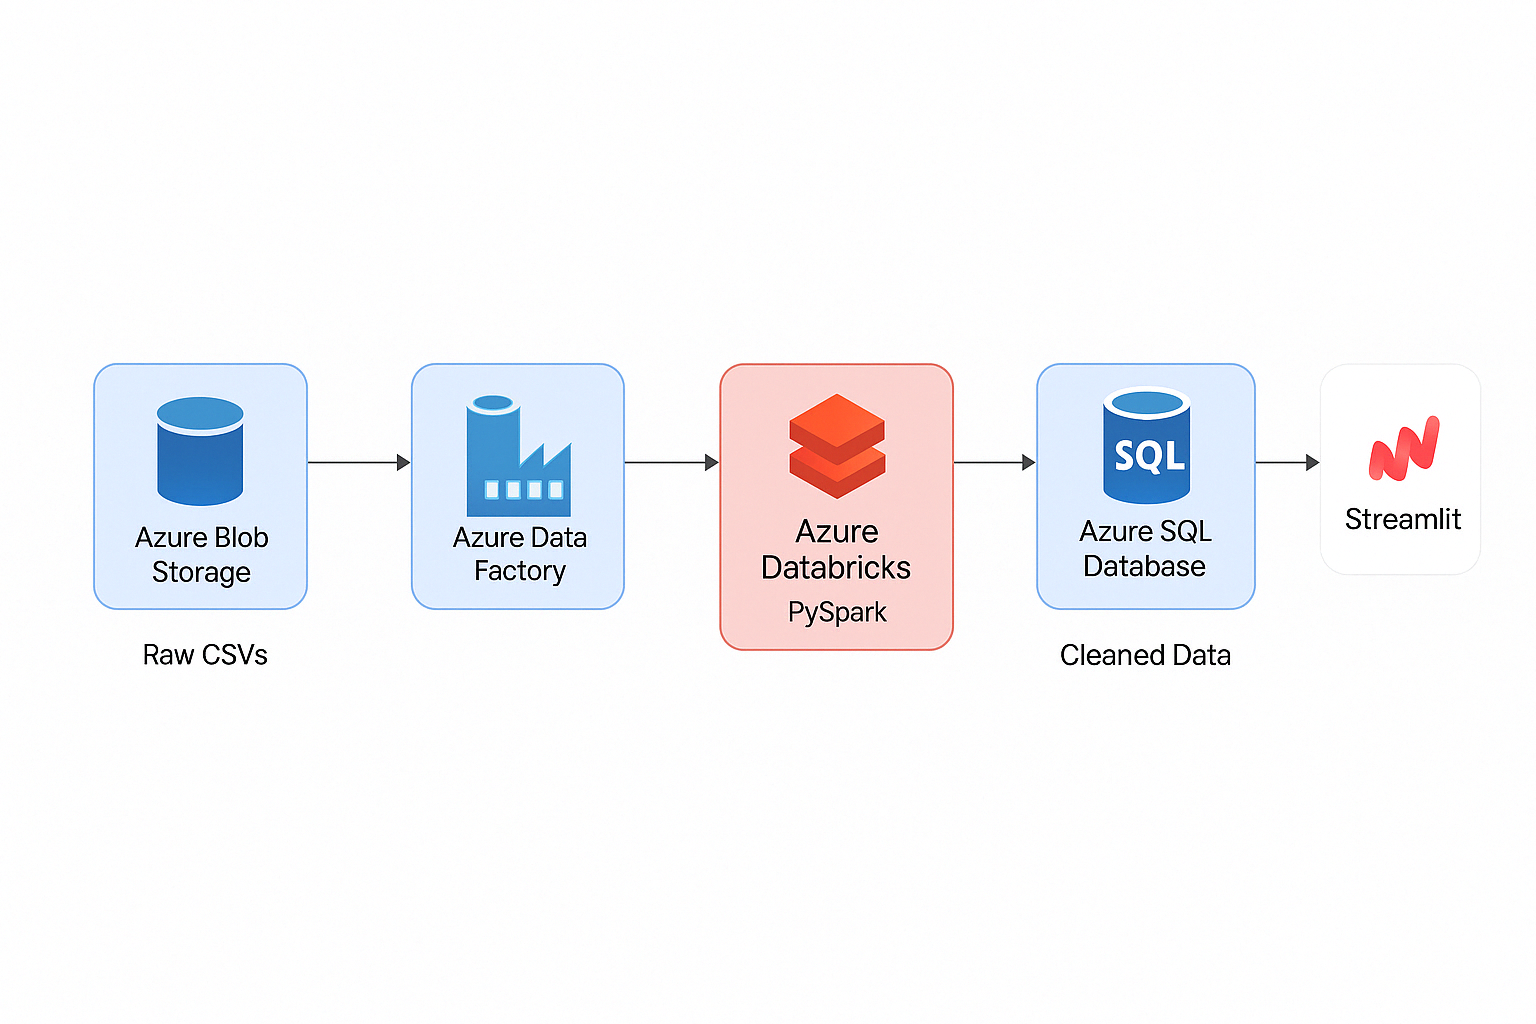
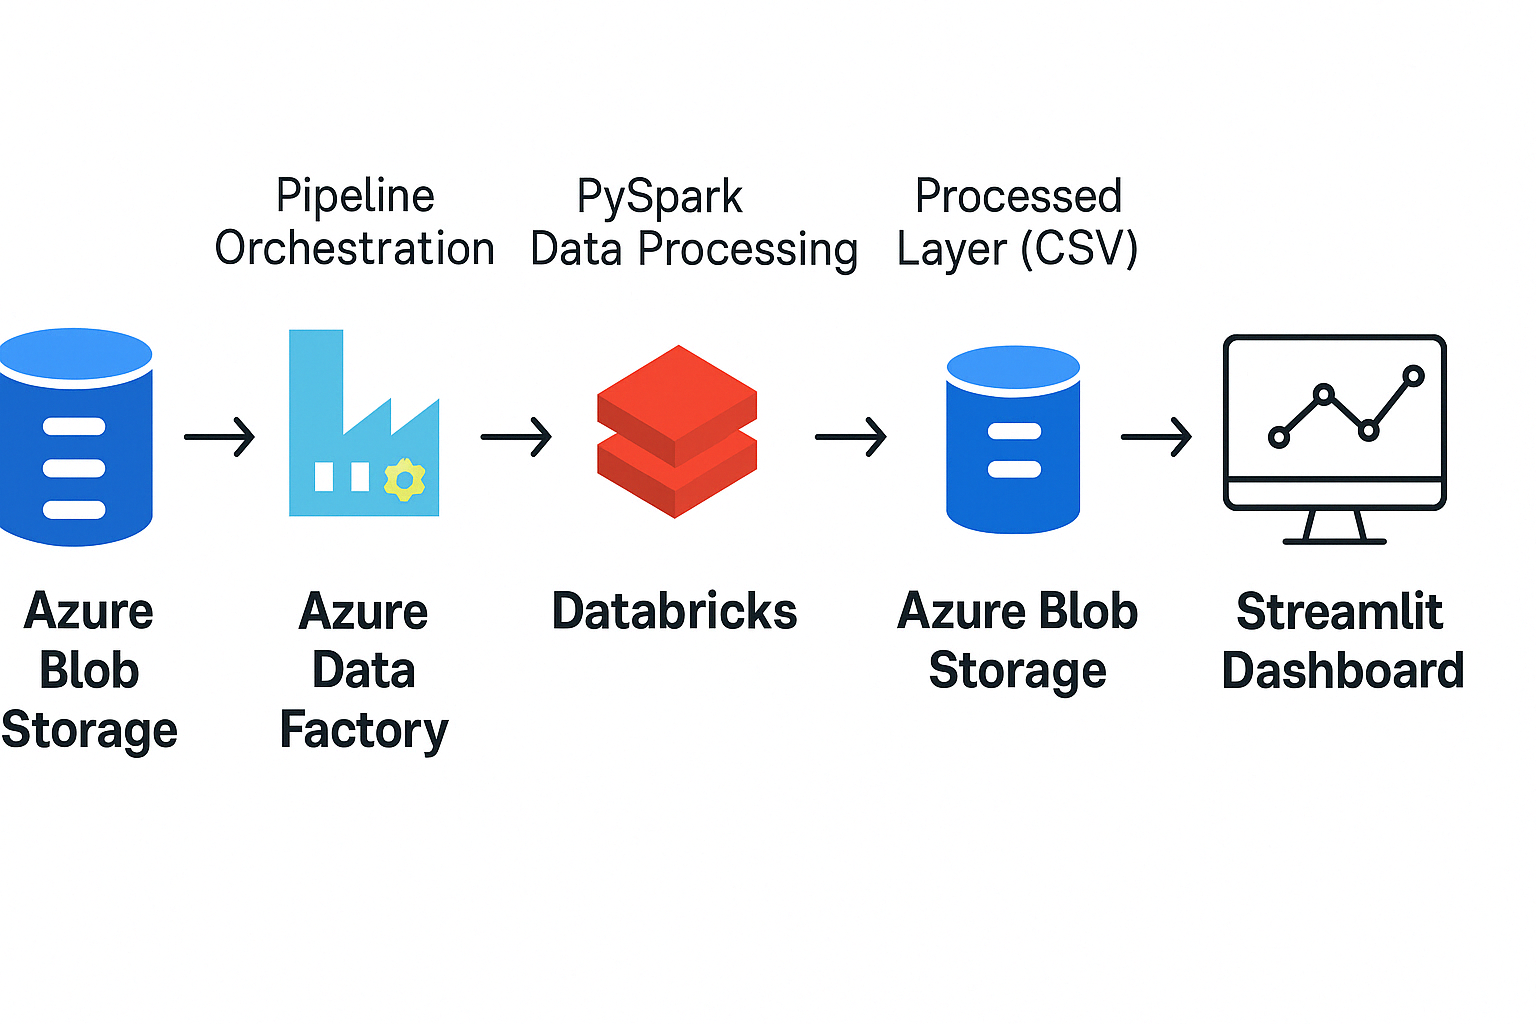
add Azure Data Factory deployment script and DevOps pipeline config

diff --git a/README.md b/README.md
@@ -1,45 +1,124 @@
-# 📦 Supply Chain Analytics Pipeline with Azure, Databricks & Streamlit
+# 📦 Supply Chain Analytics Pipeline (Azure + Databricks + Streamlit)
 
-This project demonstrates a modern supply chain analytics pipeline using Microsoft Azure cloud technologies and Python.
+This project demonstrates how to build a modern, scalable supply chain analytics pipeline using **Azure Blob Storage**, **Databricks (Community Edition)**, and **Streamlit**.
 
-## 🚀 Features
-- End-to-end ETL pipeline
-- Realistic supply chain data simulation
-- Interactive dashboard with Streamlit
-- Modular, cloud-friendly architecture
+---
 
-## 📊 Architecture
-![Architecture](architecture_diagram.png)
+## 🚚 Use Case
+Simulates a realistic supply chain scenario involving:
+- 📦 Order fulfillment
+- 🚛 Shipment tracking & delay monitoring
+- 🏬 Inventory level monitoring
+- ⚠ Low-stock alerting
+
+---
+
+## 🛠 Tech Stack
+| Layer          | Tool                         | Purpose                                 |
+|----------------|------------------------------|------------------------------------------|
+| Ingest         | Azure Blob Storage           | Raw and processed data storage           |
+| Orchestrate    | Azure Data Factory (via UI)  | Manages the pipeline workflow            |
+| Transform      | Databricks (PySpark)         | ETL pipeline for joining, cleaning data  |
+| Visualize      | Streamlit                    | Lightweight interactive dashboard        |
+| Dev/Test       | Local CSVs in `data/`        | Used for offline development             |
+
+---
+
+## 🔁 Workflow Overview
+```text
+Azure Blob Storage (Raw CSVs)
+        ↓
+Azure Data Factory (Orchestration)
+        ↓
+Databricks (ETL with PySpark)
+        ↓
+Azure Blob Storage (Processed Parquet/CSV)
+        ↓
+Streamlit Dashboard (Interactive Visualization)
+```
+
+---
 
 ## 📂 Project Structure
-...
-## 📁 Sample Data
-- orders.csv
-- inventory.csv
-- shipments.csv
+```
+supply-chain-demo/
+├── data/
+│   ├── raw/                   # Simulated raw data (orders, inventory, shipments)
+│   └── curated/               # Cleaned output files from ETL (for local Streamlit use)
+├── notebooks/
+│   └── etl_pipeline.py        # PySpark ETL notebook
+├── streamlit_app/
+│   └── dashboard.py           # Streamlit dashboard (reads from Azure Blob or local CSVs)
+├── azure/
+│   ├── adf_pipeline.json      # Azure Data Factory pipeline export (via portal)
+│   └── adf_pipeline.md        # Description of ADF configuration
+├── .devops/
+│   └── azure-pipelines.yml    # CI/CD config placeholder (optional)
+├── architecture_diagram.png   # Updated architecture image (no Azure SQL)
+└── README.md
+```
 
-## 🧪 Run Locally
-1. Clone this repo
-2. Create a virtual environment
-3. Install requirements:
-   ```bash
-   pip install streamlit pandas plotly
+---
 
-# Data Folder Structure
+## 🥚 Components
 
-This folder contains sample data files used for local development and testing.
+### 1. Ingestion
+Raw CSVs are uploaded to the `raw` container in Azure Blob Storage. Example data includes:
+- `orders.csv`
+- `inventory.csv`
+- `shipments.csv`
 
-## raw/
-Simulated raw input files in CSV format.
+### 2. Transformation (ETL)
+Databricks reads from Azure Blob, cleans and joins the datasets:
+- Parses delivery dates
+- Joins orders with shipments
+- Calculates delivery delays
+- Writes output back to Blob (as Parquet or CSV)
 
-- `orders.csv`: Customer order data
-- `inventory.csv`: Product inventory by warehouse
-- `shipments.csv`: Shipment details including delivery dates
+### 3. Visualization
+Streamlit reads the processed files from Azure Blob or local `data/curated/` and displays:
+- Shipment delay histograms
+- Inventory levels per warehouse
+- KPI metrics for total orders/shipments
 
-## curated/
-Locally processed and cleaned output data generated by the ETL pipeline (e.g., using Databricks)
+### 4. Orchestration (ADF)
+Azure Data Factory orchestrates the pipeline. ADF setup is done via Azure Portal, and the template is exported as JSON for reproducibility.
 
-- `orders_shipments.csv`: Result of joining orders and shipments
-- `inventory.csv`: Cleaned inventory data
+---
 
-⚠ In production, these files are stored and accessed from **Azure Blob Storage**.
+## 📊 Streamlit Dashboard Features
+- 📦 Inventory Status by warehouse
+- 🚚 Shipment Delay distribution
+- 📈 Order Trends (Coming soon)
+- ⚠ Low Inventory Alerts (table view)
+
+---
+
+## 🔗 Architecture Diagram
+![Architecture](architecture_diagram.png)
+
+---
+
+## 🚀 Getting Started
+1. Upload your raw CSVs to Azure Blob Storage (container `raw`)
+2. Run the PySpark notebook in Databricks
+3. Output files will be saved to Blob (container `exports`)
+4. Run the Streamlit dashboard locally or deploy
+
+---
+
+## 📝 Notes
+- This version uses **Azure Blob Storage as the clean data store**, not Azure SQL
+- Azure Data Factory was configured via the **Azure Portal**, not fully automated yet
+- `.devops/azure-pipelines.yml` is a placeholder for future CI/CD automation
+
+---
+
+## 📌 License
+MIT License
+
+---
+
+
+
+

diff --git a/azure/adf_pipeline.md b/azure/adf_pipeline.md
@@ -1,0 +1,15 @@
+# Azure Data Factory Pipeline
+
+## Purpose
+This pipeline orchestrates the ETL process by triggering a Databricks notebook to read raw CSVs from Azure Blob, transform them with PySpark, and write cleaned results back to Blob.
+
+## Components
+- Trigger: Manual (can be scheduled later)
+- Activities:
+    - Run Databricks notebook
+- Linked Services:
+    - Azure Blob Storage
+    - Azure Databricks
+
+## Deployment
+Use `deploy_adf.sh` to deploy the pipeline from `adf_pipeline.json`.
